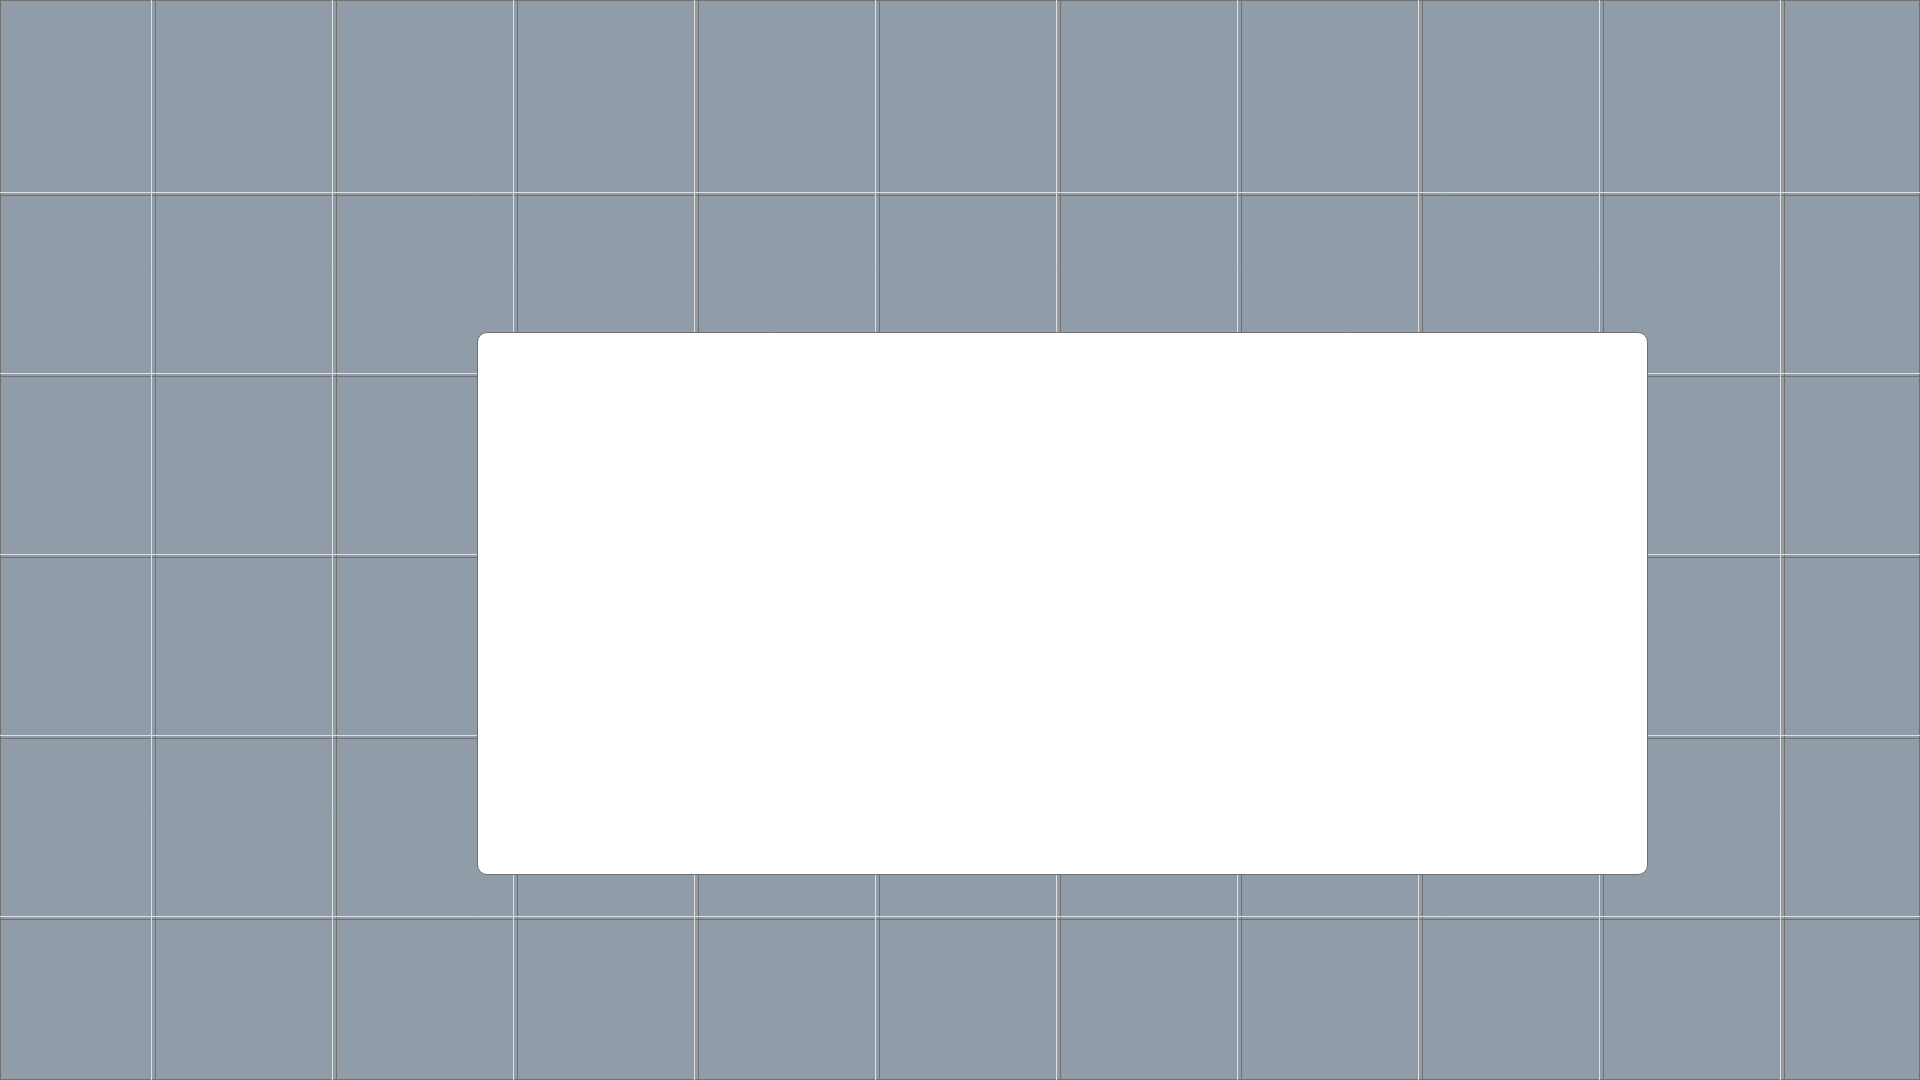
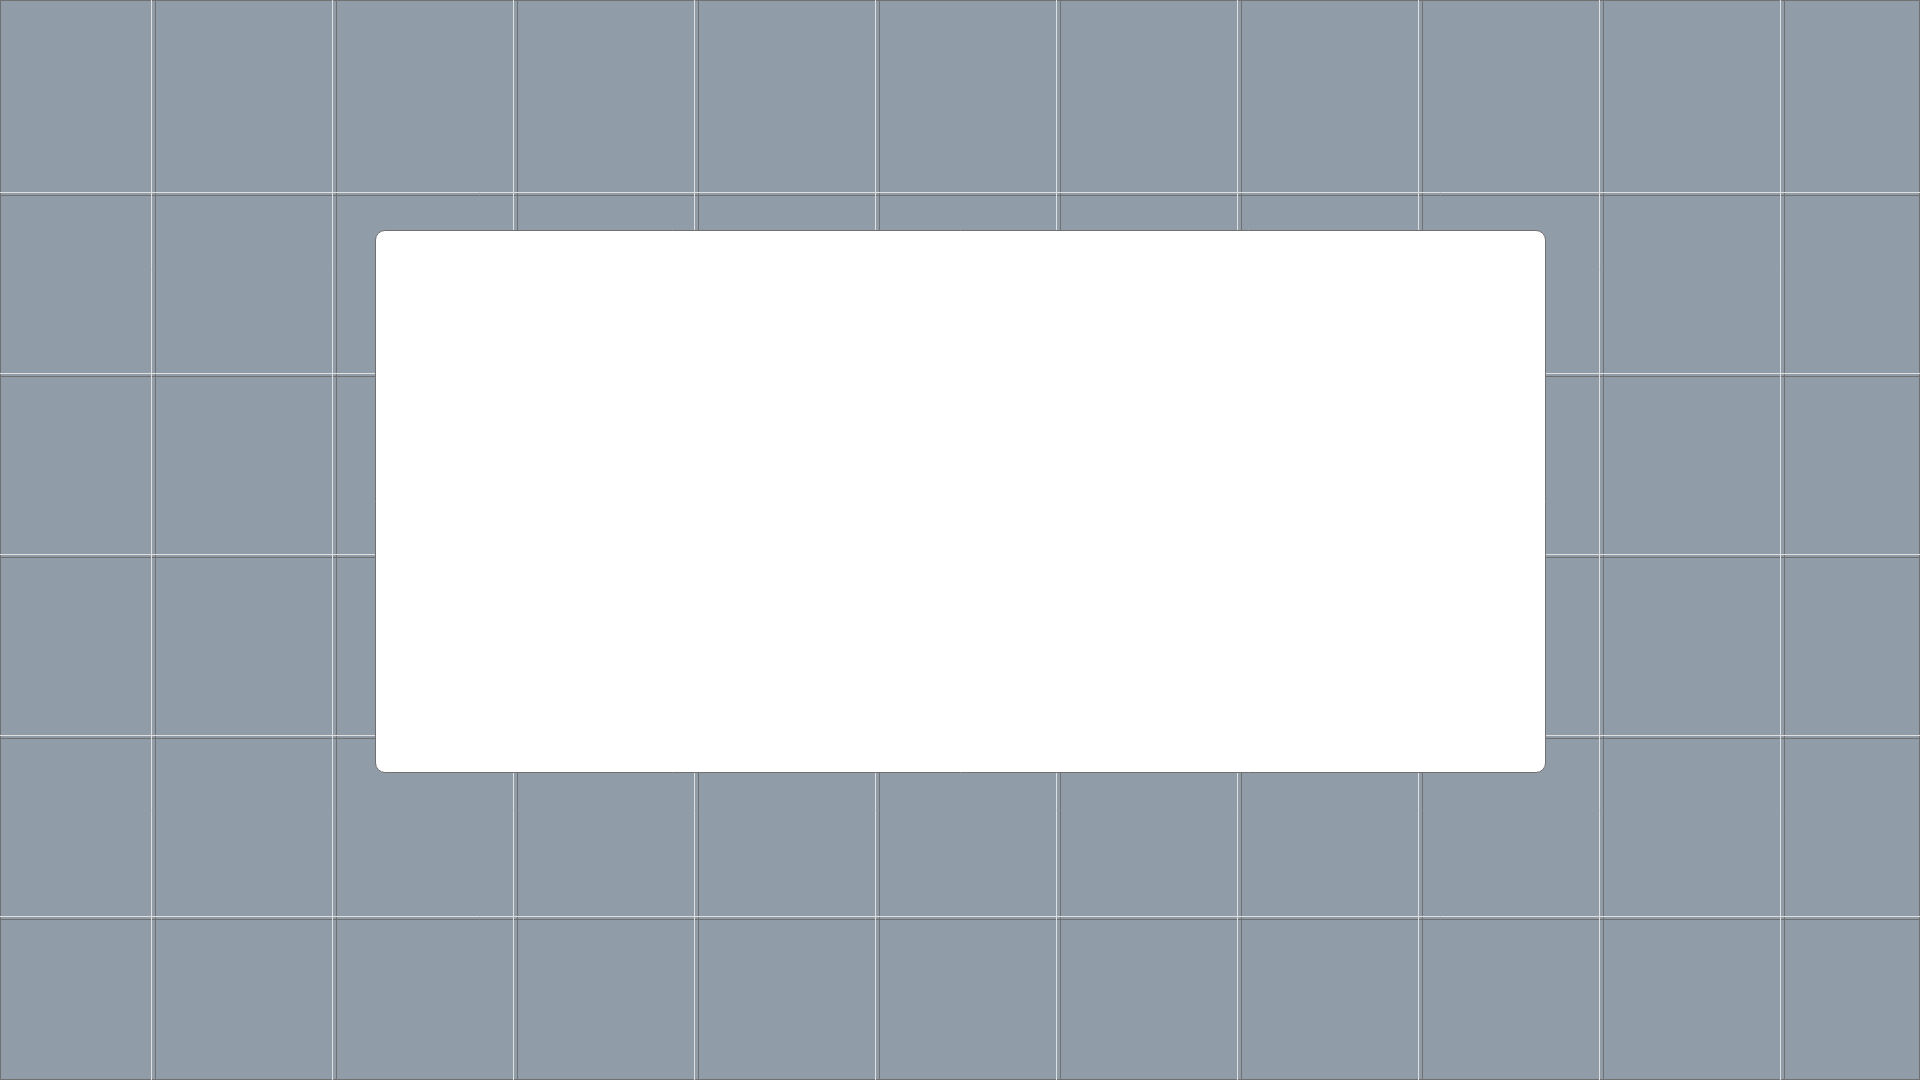
background image

Changed region(s): [[0.1875, 0.2139, 0.875, 0.825]]

diff --git a/Angular/GalaxIt/src/app/components/selection/selection.component.css b/Angular/GalaxIt/src/app/components/selection/selection.component.css
@@ -1,0 +1,12 @@
+.backgroundImg{
+    background-image:  url('../../../assets/images/OfficeBackground.png'); 
+    background-size: cover;
+    position: absolute;
+    height:100%;
+    width:100%;
+    top: 0;
+    left: 0;
+    margin: 0;
+    z-index: -9999;
+    object-fit: cover;
+}

diff --git a/Angular/GalaxIt/src/app/components/selection/selection.component.html b/Angular/GalaxIt/src/app/components/selection/selection.component.html
@@ -1,3 +1,1 @@
-<p>
-  selection works!
-</p>
+<div class="backgroundImg"></div>
